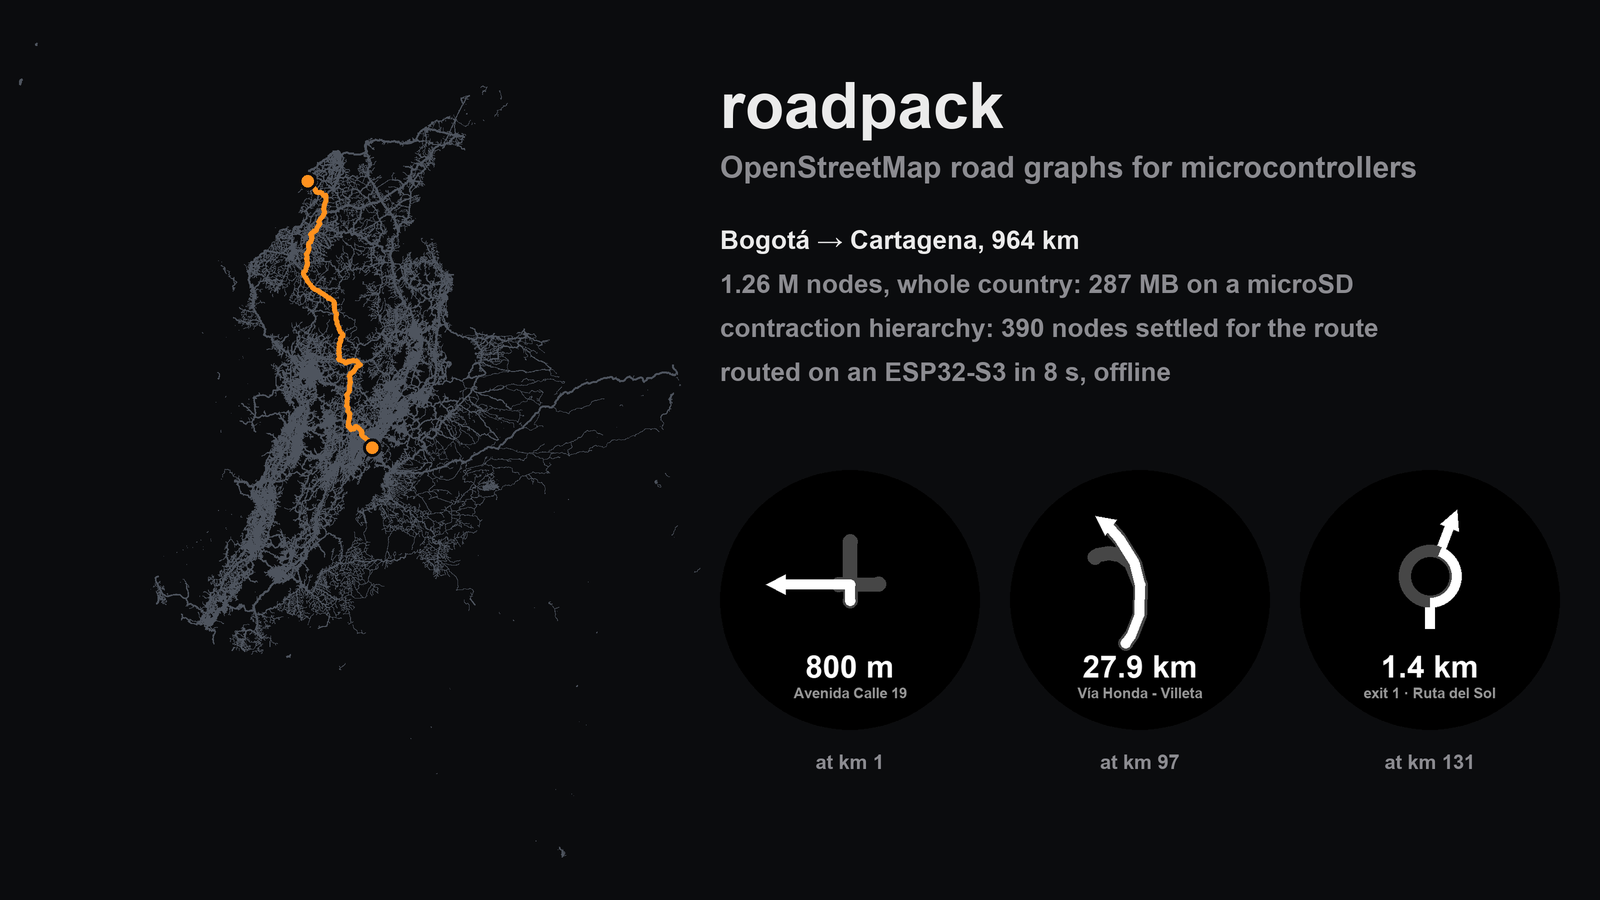
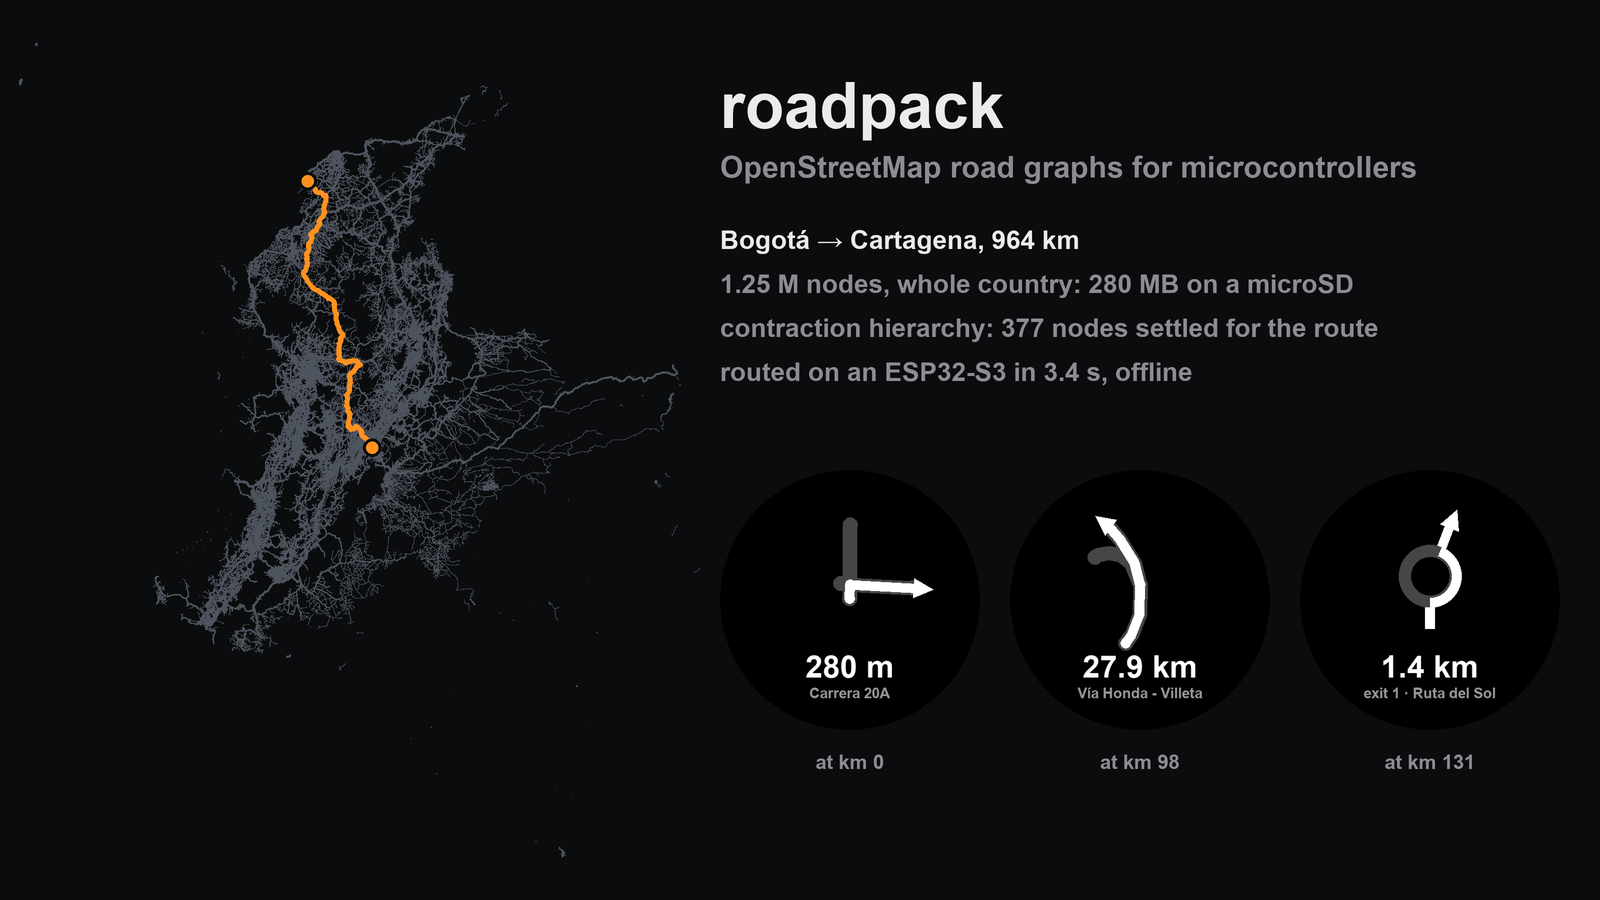
README and hero image: v3 map, current device timings
- Hero image rebuilt from the v3 Colombia map (OSM data of 2026-10-27); the device time is now an argument of
  make_hero.py (--device-seconds) instead of a hard-coded 8 s: 3.4 s measured.
- Results table regenerated from the v3 benchmarks.
- On the device: medians of 10 runs with the v3 map (Bogota-Cartagena ready to navigate in 3.4 s, 1,139 reads);
  the route length is now added up while riding. Note on verifying the files copied to a counterfeit card.

diff --git a/docs/make_hero.py b/docs/make_hero.py
@@ -1,7 +1,9 @@
 #!/usr/bin/env python3
 """Renders docs/img/hero.png: a country's whole road graph with a long route, and three maneuver screens.
 
-    python docs/make_hero.py data/out/colombia.gmap --from 4.6097,-74.0817 --to 10.3910,-75.4794
+    python docs/make_hero.py out/colombia.gmap --from 4.6097,-74.0817 --to 10.3910,-75.4794 --device-seconds 3.4
+
+--device-seconds is the time measured on the device for this route (it cannot be computed here).
 """
 import argparse
 import math
@@ -30,6 +32,8 @@ def main():
     parser.add_argument("gmap", type=Path)
     parser.add_argument("--from", dest="origin", type=point, required=True)
     parser.add_argument("--to", dest="dest", type=point, required=True)
+    parser.add_argument("--device-seconds", type=float, required=True,
+                        help="time to route it on the ESP32-S3, as measured there")
     args = parser.parse_args()
 
     g = Gmap(args.gmap)
@@ -70,7 +74,7 @@ def main():
         f"Bogotá → Cartagena, {km:,.0f} km",
         f"{g.node_count / 1e6:.2f} M nodes, whole country: {len(g.data) / 1e6:,.0f} MB on a microSD",
         f"contraction hierarchy: {stats['settled']} nodes settled for the route",
-        "routed on an ESP32-S3 in 8 s, offline",
+        f"routed on an ESP32-S3 in {args.device_seconds:g} s, offline",
     ]
     for i, line in enumerate(facts):
         d.text((x0, (225 + 44 * i) * SCALE), line, font=font(26 * SCALE), fill=TEXT if i == 0 else DIM)

diff --git a/README.es.md b/README.es.md
@@ -8,8 +8,8 @@
 
 roadpack compila un extracto de OpenStreetMap en un `.gmap`: un grafo vial binario y compacto con una
 **jerarquía de contracción** precalculada, organizado para que un dispositivo con unos pocos MB de RAM rutee
-leyendo directo de una microSD, sin cargar nunca el mapa. Toda Colombia ocupa 287 MB, y un ESP32-S3 encuentra la
-ruta de 963 km de Bogotá a Cartagena en menos de 3 segundos, con la caché vacía ([en el dispositivo](#en-el-dispositivo)).
+leyendo directo de una microSD, sin cargar nunca el mapa. Toda Colombia ocupa 280 MB, con las restricciones de
+giro, y un ESP32-S3 encuentra la ruta de 963 km de Bogotá a Cartagena en menos de 3 segundos, con la caché vacía ([en el dispositivo](#en-el-dispositivo)).
 
 [Read in English](README.md)
 
@@ -100,13 +100,13 @@ portátil de 16 GB.
 
 | Región | Nodos del grafo | `.gmap` | Construcción | Ruta mediana | Nodos asentados (mediana) | A* asienta | KB leídos por consulta |
 |---|---:|---:|---:|---:|---:|---:|---:|
-| Bogotá | 89 mil | 15 MB | 2 s | 14 km | 236 | 31 mil | 972 |
-| Londres | 415 mil | 62 MB | 10 s | 31 km | 370 | 84 mil | 1.976 |
-| Tokio | 235 mil | 42 MB | 7 s | 17 km | 438 | 82 mil | 1.936 |
-| Colombia | 1,26 M | 287 MB | 52 s | 617 km | 275 | 458 mil | 2.980 |
-| España | 3,28 M | 620 MB | 2 min | 550 km | 459 | 578 mil | 3.664 |
-| California | 2,89 M | 513 MB | 80 s | 522 km | 523 | 614 mil | 4.296 |
-| Brasil | 10,1 M | 2,5 GB | 8 min | 1.690 km | 630 | 3,4 M | 7.684 |
+| Bogotá | 91 mil | 15 MB | 2 s | 15 km | 272 | 29 mil | 1.072 |
+| Londres | 419 mil | 62 MB | 10 s | 31 km | 389 | 83 mil | 2.048 |
+| Tokio | 236 mil | 42 MB | 6 s | 17 km | 462 | 81 mil | 2.116 |
+| Colombia | 1,27 M | 288 MB | 59 s | 610 km | 294 | 439 mil | 2.952 |
+| España | 3,41 M | 632 MB | 2 min | 563 km | 420 | 545 mil | 3.580 |
+| California | 2,94 M | 523 MB | 85 s | 408 km | 566 | 1,09 M | 4.480 |
+| Brasil | 10,2 M | 2,5 GB | 7 min | 1.674 km | 693 | 3,59 M | 8.036 |
 
 Los benchmarks también incluyen Ciudad de México, Lima, Buenos Aires, Santiago, Washington DC, Ottawa, Toronto,
 Nueva York, Madrid, Barcelona, París, Berlín, Canadá, Texas, el estado de Nueva York y Colombia por departamento.
@@ -115,17 +115,18 @@ Nueva York, Madrid, Barcelona, París, Berlín, Canadá, Texas, el estado de Nue
 ## En el dispositivo
 
 Medido en el navegador para el que se hizo: un ESP32-S3 con una caché de páginas de 2 MB en PSRAM (páginas de
-4 KiB), leyendo el mapa de Colombia de una microSD en modo de 1 bit a 40 MHz, con la caché vacía antes de cada ruta.
+4 KiB), leyendo el mapa de Colombia (v3, con restricciones de giro; datos de OSM del 27-10-2026) de una microSD en
+modo de 1 bit a 40 MHz, con la caché vacía antes de cada ruta. Mediana de 10 corridas.
 
 | Ruta | Distancia | Ruta encontrada | Lista para navegar | Lecturas de la SD |
 |---|---:|---:|---:|---:|
-| Bogotá de lado a lado | 15 km | 0,9 s | 1,3 s | 396 |
-| Bogotá – San Francisco | 62 km | 0,9 s | 1,3 s | 430 |
-| Bogotá – Medellín | 427 km | 1,8 s | 2,8 s | 934 |
-| Bogotá – Cartagena | 963 km | 2,8 s | 4,4 s | 1.484 |
+| Bogotá de lado a lado | 15 km | 0,9 s | 1,4 s | 423 |
+| Bogotá – San Francisco | 62 km | 1,0 s | 1,4 s | 464 |
+| Bogotá – Medellín | 427 km | 2,0 s | 2,5 s | 839 |
+| Bogotá – Cartagena | 963 km | 2,9 s | 3,4 s | 1.139 |
 
 *Ruta encontrada* es la consulta en la jerarquía más desarmar los atajos en aristas. *Lista para navegar* suma las
-formas y maniobras de los primeros 15 km y el largo de toda la ruta.
+formas y maniobras de los primeros 15 km.
 
 Lo que hizo la diferencia:
 
@@ -134,11 +135,13 @@ Lo que hizo la diferencia:
   más grandes fueron más lentas: el costo crece con los bytes leídos.
 - **Armar las formas sobre la marcha.** Leer las formas y revisar cada cruce de una ruta de 963 km cuesta más que
   encontrarla (1.352 lecturas), así que el navegador solo arma 15 km por delante. Bogotá–Cartagena pasó de 8,2 a
-  4,4 s.
+  4,4 s. Sumar el largo del resto de la ruta en marcha, y no antes de mostrarla, ahorró otras ~400 lecturas:
+  mientras tanto, la distancia que falta se estima con el tiempo de recorrido de las aristas.
 - **Usar una tarjeta original.** Una falsificada (vendida como de marca conocida, pero su CID dice fabricante 0x6F)
   se frenaba unos 9 s en una de cada tres rutas y a veces fallaba una lectura aun con reintentos. Una lectura
   fallida deja ceros donde iban los datos, sin avisar, así que el dispositivo las cuenta y vuelve a calcular la
-  ruta.
+  ruta. La misma tarjeta guardó una vez una copia del mapa con 16 KB de un pedazo cambiados por otros datos, sin
+  ningún error: hay que comparar los archivos después de copiarlos a la tarjeta.
 
 ## Límites
 

diff --git a/README.md b/README.md
@@ -8,8 +8,8 @@
 
 roadpack compiles an OpenStreetMap extract into a `.gmap`: a compact binary road graph with a precomputed
 **contraction hierarchy**, laid out so that a device with a few MB of RAM routes straight from a microSD card,
-without ever loading the map. All of Colombia is 287 MB, and an ESP32-S3 finds the 963 km route from Bogotá to
-Cartagena in under 3 seconds, with a cold cache ([on the device](#on-the-device)).
+without ever loading the map. All of Colombia is 280 MB, turn restrictions included, and an ESP32-S3 finds the 963 km
+route from Bogotá to Cartagena in under 3 seconds, with a cold cache ([on the device](#on-the-device)).
 
 [Leer en español](README.es.md)
 
@@ -98,13 +98,13 @@ From the [benchmarks](benchmarks/README.md): motorcycle profile, 200 random rout
 
 | Region | Graph nodes | `.gmap` | Build | Median route | Nodes settled (median) | A* settles | KB read per query |
 |---|---:|---:|---:|---:|---:|---:|---:|
-| Bogotá | 89 k | 15 MB | 2 s | 14 km | 236 | 31 k | 972 |
-| London | 415 k | 62 MB | 10 s | 31 km | 370 | 84 k | 1,976 |
-| Tokyo | 235 k | 42 MB | 7 s | 17 km | 438 | 82 k | 1,936 |
-| Colombia | 1.26 M | 287 MB | 52 s | 617 km | 275 | 458 k | 2,980 |
-| Spain | 3.28 M | 620 MB | 2 min | 550 km | 459 | 578 k | 3,664 |
-| California | 2.89 M | 513 MB | 80 s | 522 km | 523 | 614 k | 4,296 |
-| Brazil | 10.1 M | 2.5 GB | 8 min | 1,690 km | 630 | 3.4 M | 7,684 |
+| Bogotá | 91 k | 15 MB | 2 s | 15 km | 272 | 29 k | 1,072 |
+| London | 419 k | 62 MB | 10 s | 31 km | 389 | 83 k | 2,048 |
+| Tokyo | 236 k | 42 MB | 6 s | 17 km | 462 | 81 k | 2,116 |
+| Colombia | 1.27 M | 288 MB | 59 s | 610 km | 294 | 439 k | 2,952 |
+| Spain | 3.41 M | 632 MB | 2 min | 563 km | 420 | 545 k | 3,580 |
+| California | 2.94 M | 523 MB | 85 s | 408 km | 566 | 1.09 M | 4,480 |
+| Brazil | 10.2 M | 2.5 GB | 7 min | 1,674 km | 693 | 3.59 M | 8,036 |
 
 The benchmarks also cover Mexico City, Lima, Buenos Aires, Santiago, Washington DC, Ottawa, Toronto, New York,
 Madrid, Barcelona, Paris, Berlin, Canada, Texas, New York State and Colombia by department.
@@ -113,17 +113,18 @@ Madrid, Barcelona, Paris, Berlin, Canada, Texas, New York State and Colombia by 
 ## On the device
 
 Measured on the navigator this was built for: an ESP32-S3 with a 2 MB page cache in PSRAM (4 KiB pages), reading
-the Colombia map from a microSD card in 1-bit mode at 40 MHz, with the cache empty before each route.
+the Colombia map (v3, with turn restrictions; OSM data of 2026-10-27) from a microSD card in 1-bit mode at
+40 MHz, with the cache empty before each route. Median of 10 runs.
 
 | Route | Distance | Route found | Ready to navigate | SD card reads |
 |---|---:|---:|---:|---:|
-| Across Bogotá | 15 km | 0.9 s | 1.3 s | 396 |
-| Bogotá – San Francisco | 62 km | 0.9 s | 1.3 s | 430 |
-| Bogotá – Medellín | 427 km | 1.8 s | 2.8 s | 934 |
-| Bogotá – Cartagena | 963 km | 2.8 s | 4.4 s | 1,484 |
+| Across Bogotá | 15 km | 0.9 s | 1.4 s | 423 |
+| Bogotá – San Francisco | 62 km | 1.0 s | 1.4 s | 464 |
+| Bogotá – Medellín | 427 km | 2.0 s | 2.5 s | 839 |
+| Bogotá – Cartagena | 963 km | 2.9 s | 3.4 s | 1,139 |
 
 *Route found* is the hierarchy query plus unpacking the shortcuts into edges. *Ready to navigate* adds the
-shapes and maneuvers of the first 15 km and the length of the whole route.
+shapes and maneuvers of the first 15 km.
 
 What made the difference:
 
@@ -132,10 +133,13 @@ What made the difference:
   the cost grows with the bytes read.
 - **Build the shapes as you go.** Reading the shapes and checking every intersection of a 963 km route costs more
   than finding it (1,352 reads), so the navigator only builds 15 km ahead of the rider. Bogotá–Cartagena went from
-  8.2 to 4.4 s.
+  8.2 to 4.4 s. Adding up the length of the rest of the route while riding, instead of before showing it, saved
+  another ~400 reads: until then the remaining distance is estimated from the travel time of the edges.
 - **Use a genuine card.** A counterfeit one (sold as a known brand, but its CID reports manufacturer 0x6F)
   stalled for about 9 s in one route out of three and sometimes failed a read even after retries. A failed read
-  silently leaves zeros where the data should be, so the device counts them and computes the route again.
+  silently leaves zeros where the data should be, so the device counts them and computes the route again. The same
+  card once stored a copy of the map with 16 KB of one chunk replaced by other data, without any error: compare
+  the files after copying them to the card.
 
 ## Limits
 
